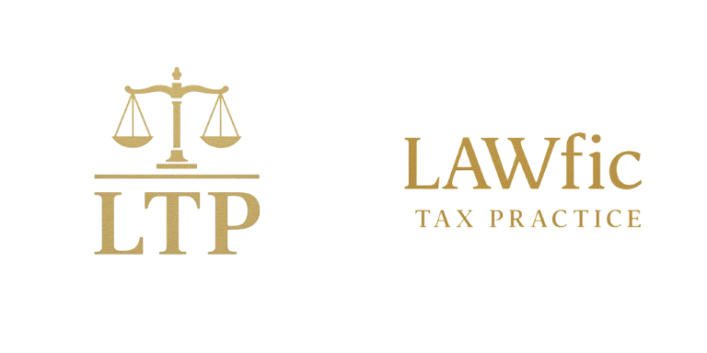
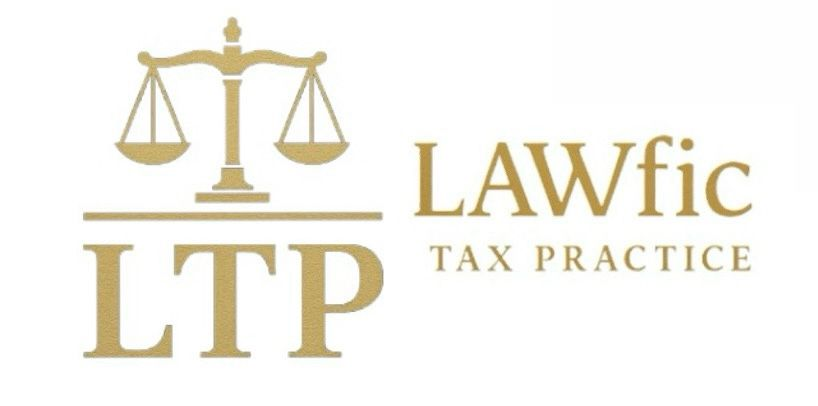
Added focus page and updated navbar and styling

Changed region(s): [[0.0934, 0.0312, 0.4668, 0.9037], [0.4979, 0.3116, 0.9335, 0.5609], [0.529, 0.5921, 0.9335, 0.6856]]

diff --git a/src/pages/people.tsx b/src/pages/people.tsx
@@ -7,6 +7,7 @@ import img2 from "../assets/name2.jpg"
 import img3 from "../assets/name3.jpg"
 
 
+
 const People : React.FC = () => {
   return (
     <>
@@ -18,6 +19,8 @@ const People : React.FC = () => {
 
         <div className="regulatory">
         <h1>1.GUPTESHWAR SHAH</h1>
+        <img src={img3} alt="Img1" style={{ width: '220px', height: 'auto' }} />
+        
         <p><strong>Gupteshwar shah is the Founder and Managing Partner of Lawfic tax practice (LTP).</strong></p>
         <p><strong>ABOUT GUPTESHWAR SHAH</strong></p>
         <p>Education-Bsc Life Sciences (University of Delhi)
@@ -28,6 +31,7 @@ const People : React.FC = () => {
 <p><strong>He has experience of more than ten years in serving customs and excise department (GST). He has vide knowledge of working of laws and procedures and rules.</strong></p>
          <p>He has represented his clients before adjudicatory authorities in customs and GST department also he appears at CESTAT and High Courts and Supreme Court.</p>
           <h1>2.PARVIND KUMAR</h1>
+           <img src={img1} alt="Img3" style={{ width: '220px', height: 'auto' }} />
           <p><strong>Parvind Kumar is the Founder and Managing Partner of Lawfic tax practice (LTP).</strong></p>
           <p><strong>ABOUT PARVIND KUMAR</strong></p>
           <p>Education-Bsc Electronics (University of Delhi)
@@ -36,6 +40,7 @@ const People : React.FC = () => {
 He has represented his clients before adjudicatory authorities in customs and GST department also he appears at CESTAT and High Courts and Supreme Court.
 </p>
 <h1>3.ANJALI SHAH</h1>
+<img src={img2} alt="Img2" style={{ width: '220px', height: 'auto' }} />
 <p><strong>Anjali shah is the Founder and Managing Partner of Lawfic tax practice (LTP).</strong></p>
 <p><strong>ABOUT ANJALI SHAH</strong></p>
 <p>Education- Bsc Physics (H) (Miranda House College, University of Delhi)
@@ -45,22 +50,6 @@ He has represented his clients before adjudicatory authorities in customs and GS
 <p>Anjali shah advises companies in all areas of taxation, including International Taxation and Transfer Pricing, Goods and Services Tax (GST), Customs, Excise, Service Tax, Value Added Tax (VAT), Foreign Trade Policy, and Special Economic Zones, offering consulting, advisory, litigation and compliance services. She has also successfully represented clients from many countries in several anti-dumping, subsidy and trade investigations initiated by India. Her expertise in handling cross border matters and related party transactions is widely recognized.</p>
 <p>She has experience of more than ten years in serving customs and excise department (GST). SHe has vide knowledge of working of laws and procedures and rules.</p>
 <p>She has represented her clients before adjudicatory authorities in customs and GST department also he appears at CESTAT and High Courts and Supreme Court.</p>
-<div style={{ display: 'flex', justifyContent: 'center', gap: '190px', marginTop: '60px' }}>
-  <div style={{ textAlign: 'center' }}>
-    <img src={img3} alt="Img1" style={{ width: '220px', height: 'auto' }} />
-    <p style={{ marginTop: '8px' }}>Gupteshwar Shah</p>
-  </div>
-
-  <div style={{ textAlign: 'center' }}>
-    <img src={img2} alt="Img2" style={{ width: '220px', height: 'auto' }} />
-    <p style={{ marginTop: '30px' }}>Anjali Shah</p>
-  </div>
-
-  <div style={{ textAlign: 'center' }}>
-    <img src={img1} alt="Img3" style={{ width: '220px', height: 'auto' }} />
-    <p style={{ marginTop: '8px' }}>Parvind Kumar</p>
-  </div>
-</div>
 
 
 

diff --git a/src/components/navbar.tsx b/src/components/navbar.tsx
@@ -11,14 +11,16 @@ const Navbar : React.FC = () => {
 
     return (
         <div className="navbar-container">
-            <Link to="/">
-            <img src={websiteLogo} alt="Logo" style={{ height: '115px', width: 'auto' }} />
-            </Link>
+  <div className="navbar-logo">
+    <Link to="/">
+      <img src={websiteLogo} alt="Logo" />
+    </Link>
+  </div>
             <div className="list-items">
                 <ul className="navbar-list-items">
                     <li><Link to="/People">PEOPLE</Link></li>
                     <li className="dropdown">
-                    <Link className="nav-link" to="/practices">PRACTICES</Link>
+                    <li>PRACTICES</li>
                     <ul className="dropdown-menu">
                         
                        
@@ -33,24 +35,18 @@ const Navbar : React.FC = () => {
                         <span className="nav-link">INSIGHTS</span>
                         <ul className="dropdown-menu">
                            
-                            <li><Link to="/bis">Articles</Link></li>
-                            <li><Link to="/banking-finance">Newsletters</Link></li>
+                            <li><Link to="/focus">In-Focus</Link></li>
+                            
                             
                         </ul>
                     </li>
-                    <li className="dropdown">
-                        <span className="nav-link">NEWSROOM</span>
-                        <ul className="dropdown-menu">
-                            <li><Link to="/arbitration">News & Briefings</Link></li>
-                            <li><Link to="/bis">Events</Link></li>
-                        </ul>
-                    </li>
+                   
                     <li>
                         <Link to="/#about-us">ABOUT US</Link>
                     
                      
                     </li>
-                    <li><Link to="/#">CAREERS</Link></li>
+                    
                     
                 </ul>
                 <SearchIcon style={{ color: 'darkblue', cursor: 'pointer' }} />

diff --git a/src/pages/Practices/focus.tsx b/src/pages/Practices/focus.tsx
@@ -1,0 +1,43 @@
+import React from "react";
+import Navbar from "../../components/navbar";
+import "../../App.css"
+import Footer from "../../components/footer";
+
+
+
+
+
+const Focus: React.FC = () => (
+  <>
+    <Navbar />
+    <div className="gst-content">
+        <a href="https://www.lakshmisri.com/mediaTypes/Documents/Guide-to-investigation,-adjudication-and-appeal-under-Indian-Foreign-Exchange-Law.pdf" target="_blank">
+        <h1>
+         Foreign Exchange Laws – Guide to investigation, adjudication and appeal
+        </h1>
+        </a>
+        <div className="regulatory">
+        <p>The monograph discusses the manner and steps of investigation, inquiry and adjudication under the Indian Foreign Exchange laws.</p>
+        
+       <a href="https://www.lakshmisri.com/mediaTypes/Documents/Guide-to-investigation,-adjudication-and-appeal-under-Indian-Foreign-Exchange-Law.pdf" target="_blank"> <p> Download full edition of LKS - In Focus (Foreign Exchange Laws – Guide to investigation, adjudication and appeal)</p></a>
+        <a href="https://www.lakshmisri.com/mediaTypes/Documents/The-Rise-of-W&I-insurance-in-deal-making-a-global-perspective.pdf" target="_blank">
+        <h1>Rise of W&I insurance in deal making</h1>
+        </a>
+         <p>The monograph discusses the key aspects pertaining to W&I Insurance and highlights the important global trends in its evolution.</p>
+          <a href="https://www.lakshmisri.com/mediaTypes/Documents/The-Rise-of-W&I-insurance-in-deal-making-a-global-perspective.pdf"> <p> Download full edition of LKS - In Focus (Decoding SEBI (LODR) Third Amendment Regulations, 2024)</p></a>
+          
+
+          
+          
+
+
+        </div>
+      </div>
+     
+
+    
+  <Footer/>
+  </>
+);
+
+export default Focus;

diff --git a/src/App.tsx b/src/App.tsx
@@ -15,6 +15,7 @@ import Cookie from './pages/Practices/cookie';
 import Regulatory from './pages/Practices/regulatory';
 import CookieBanner from './components/CookieBanner'; 
 import Contact from './pages/Practices/contact';
+import Focus from './pages/Practices/focus'
 
 
 
@@ -37,6 +38,7 @@ const App: React.FC = () => {
         <Route path="/cookies" element={<Cookie />} />
         <Route path="/regulatory-disclosures" element={<Regulatory />} />
         <Route path="/contact" element={<Contact />} />
+        <Route path="/focus" element={<Focus/>}/>
         
         
       </Routes>

diff --git a/src/App.css b/src/App.css
@@ -7,20 +7,17 @@
 }
 
 .navbar-container {
-  padding-top: 15px;
-  width: 100vw;
-  height: 10vh;
   display: flex;
+  justify-content:center;
   align-items: center;
-  justify-content: center;
-  z-index: 10000;
-  position: relative;
-  
+  padding: 0 15rem;
+  height: 10vh;
+  background-color: white;
 }
 
-.navbar-container > img{
-  padding-left: 14rem;
-  width: 15%;
+.navbar-logo img {
+  height: 8vh;
+  width: auto;
 }
 
 .list-items {
